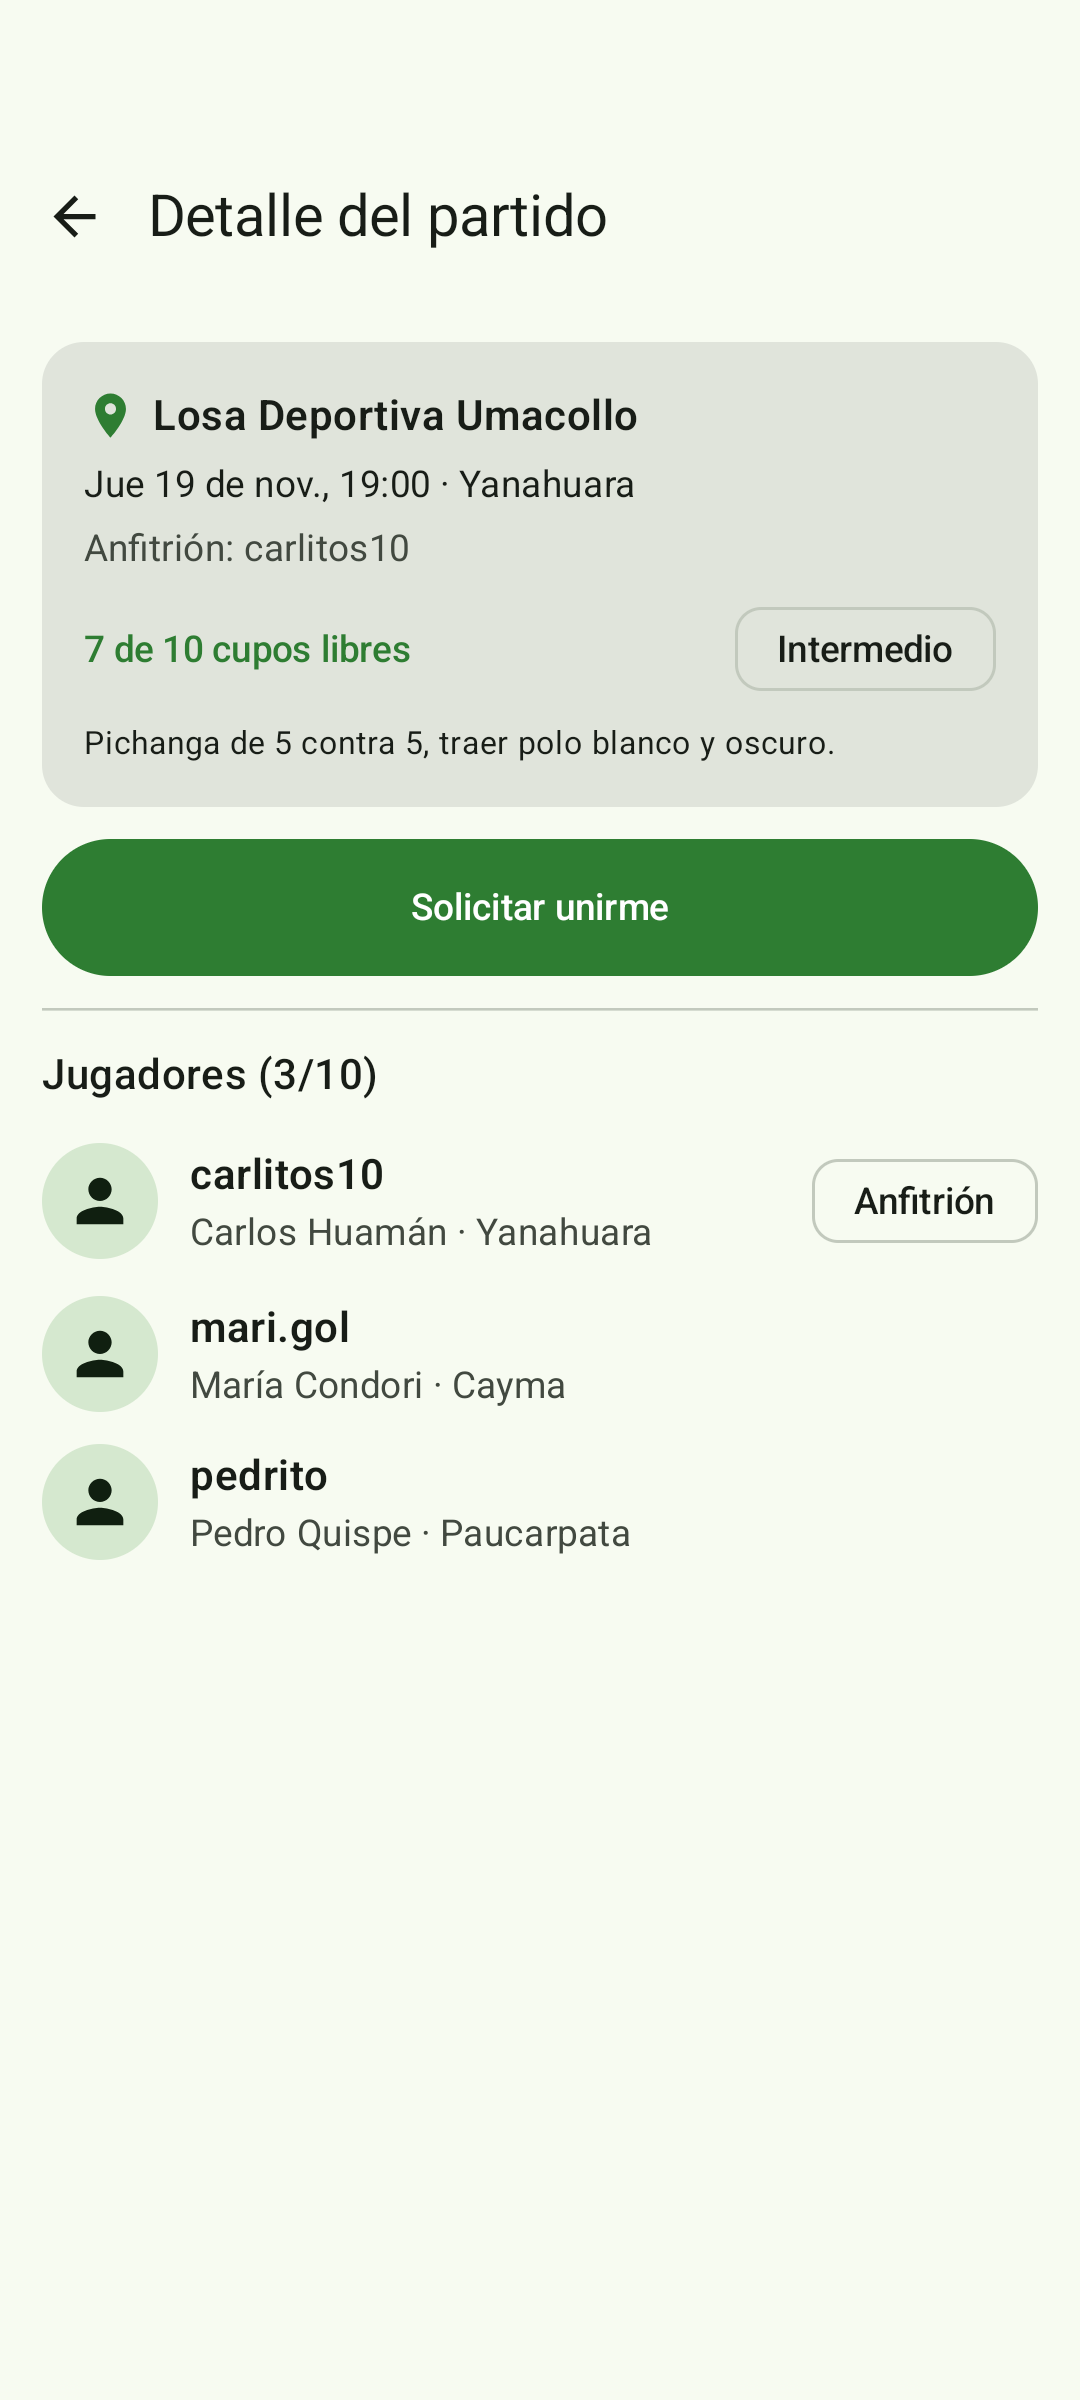
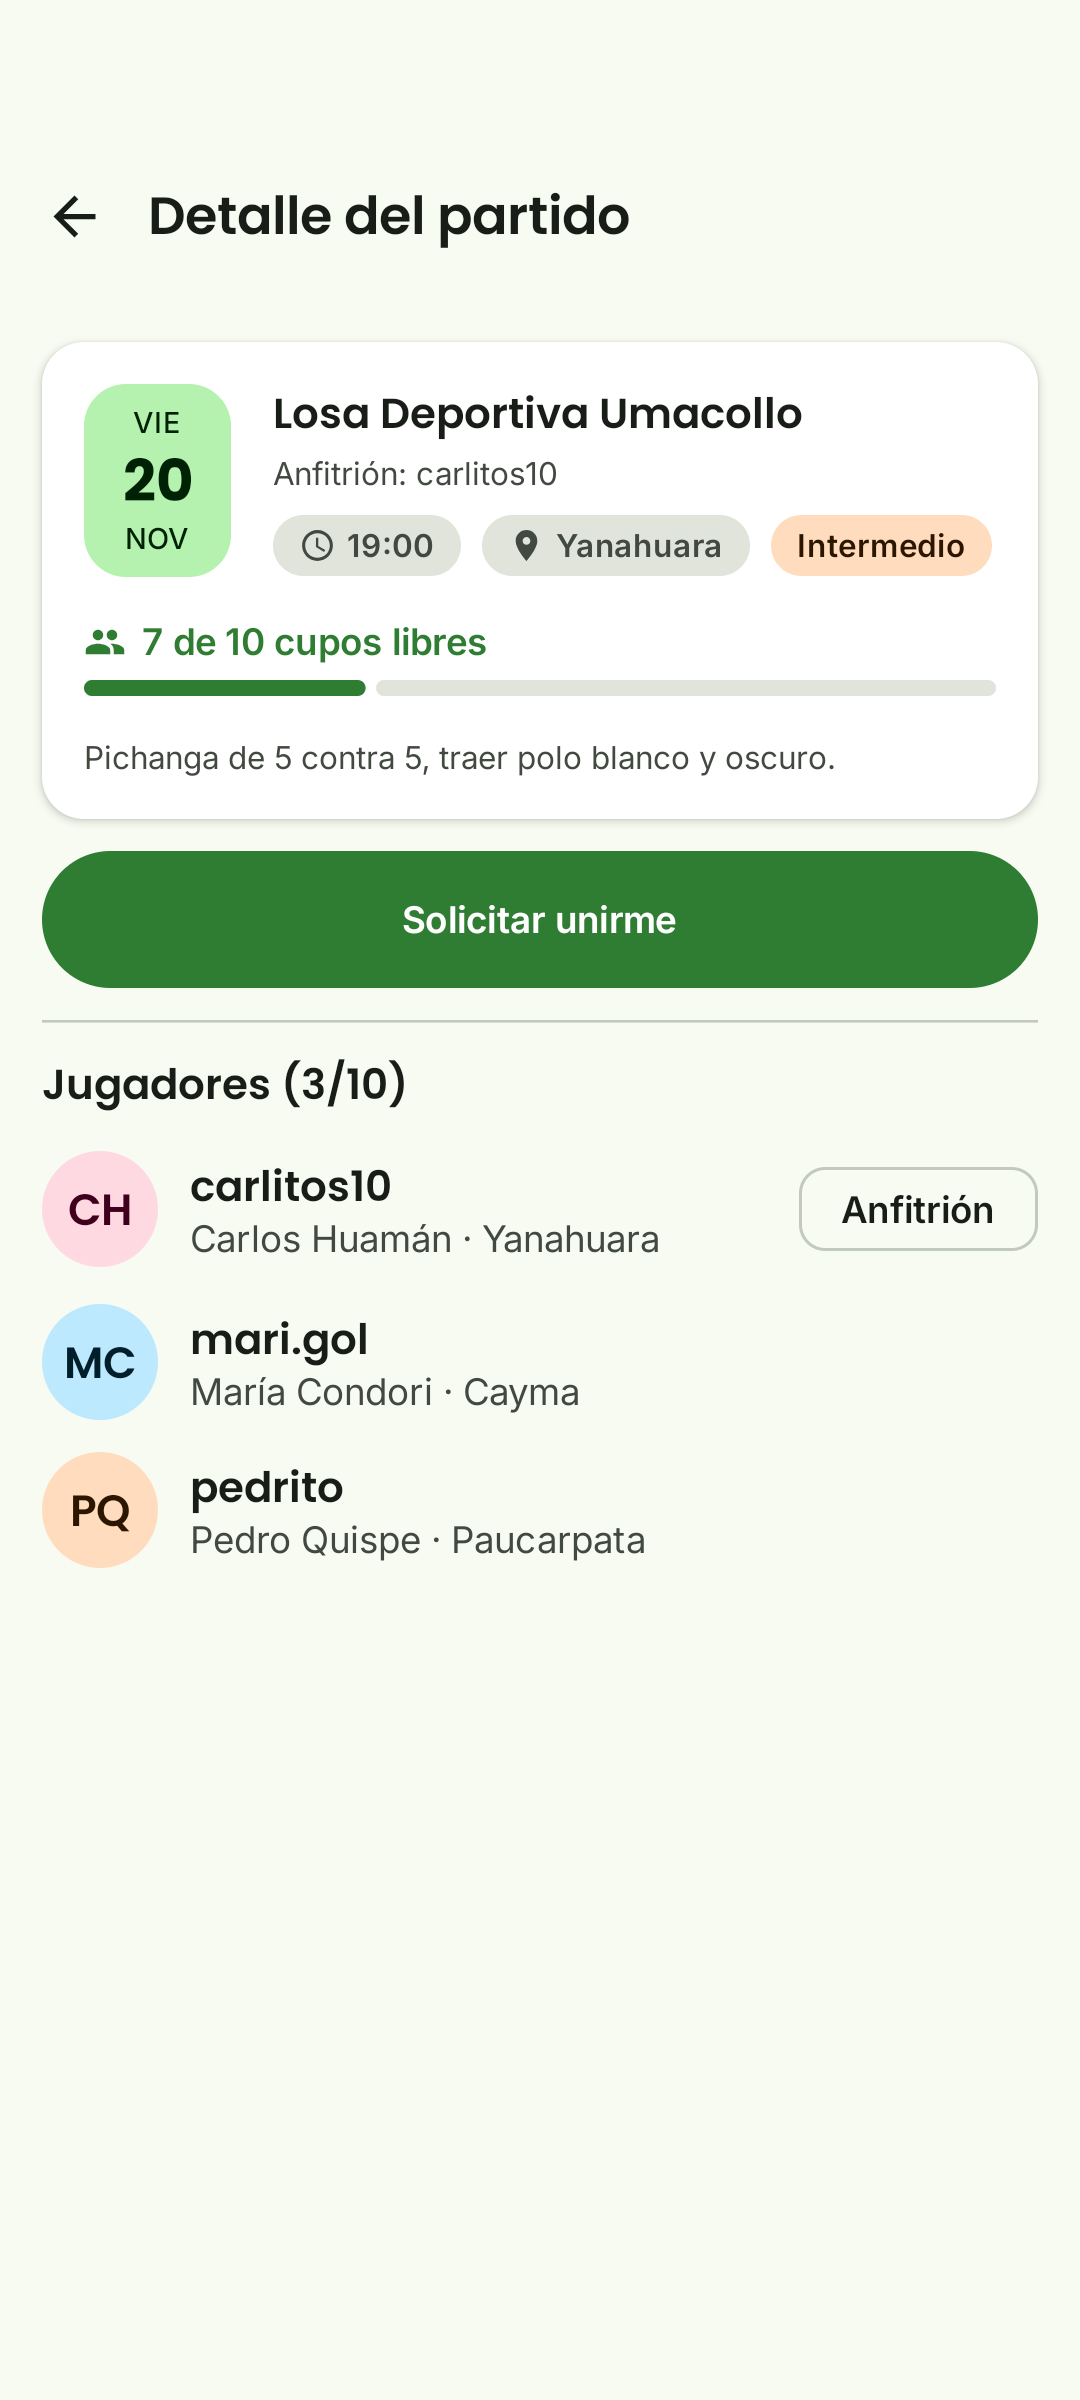
docs: capturas con el nuevo diseno

Changed region(s): [[0.0306, 0.0625, 0.9778, 0.6562], [0.7333, 0.4688, 0.9472, 0.5312], [0.4278, 0.5625, 0.55, 0.5938]]

diff --git a/README.md b/README.md
@@ -75,7 +75,11 @@ Proyecto final del curso de Desarrollo de Aplicaciones Móviles.
 - **Diseño "verde cancha":** tema propio de Material 3 con verde césped
   (`#2E7D32`) y acento naranja (`#FF8F00`), modo claro y oscuro, esquinas
   redondeadas y un logo propio (pelota con lupa) como ícono adaptable, con
-  versión monocromática para los íconos temáticos de Android 13+.
+  versión monocromática para los íconos temáticos de Android 13+. Títulos en
+  **Poppins** y textos en **Inter** (incluidas en la app, licencia OFL en
+  `licencias/`), tarjetas blancas con sombra suave, avatares con las iniciales
+  del jugador y tarjetas de partido con la fecha en grande, chips de hora,
+  distancia y nivel (con color) y una barra de cupos.
 
 > Cuentas, partidos, solicitudes, amigos, grupos, invitaciones y estadísticas
 > se guardan en **Firebase** y se actualizan en tiempo real entre teléfonos. Las
